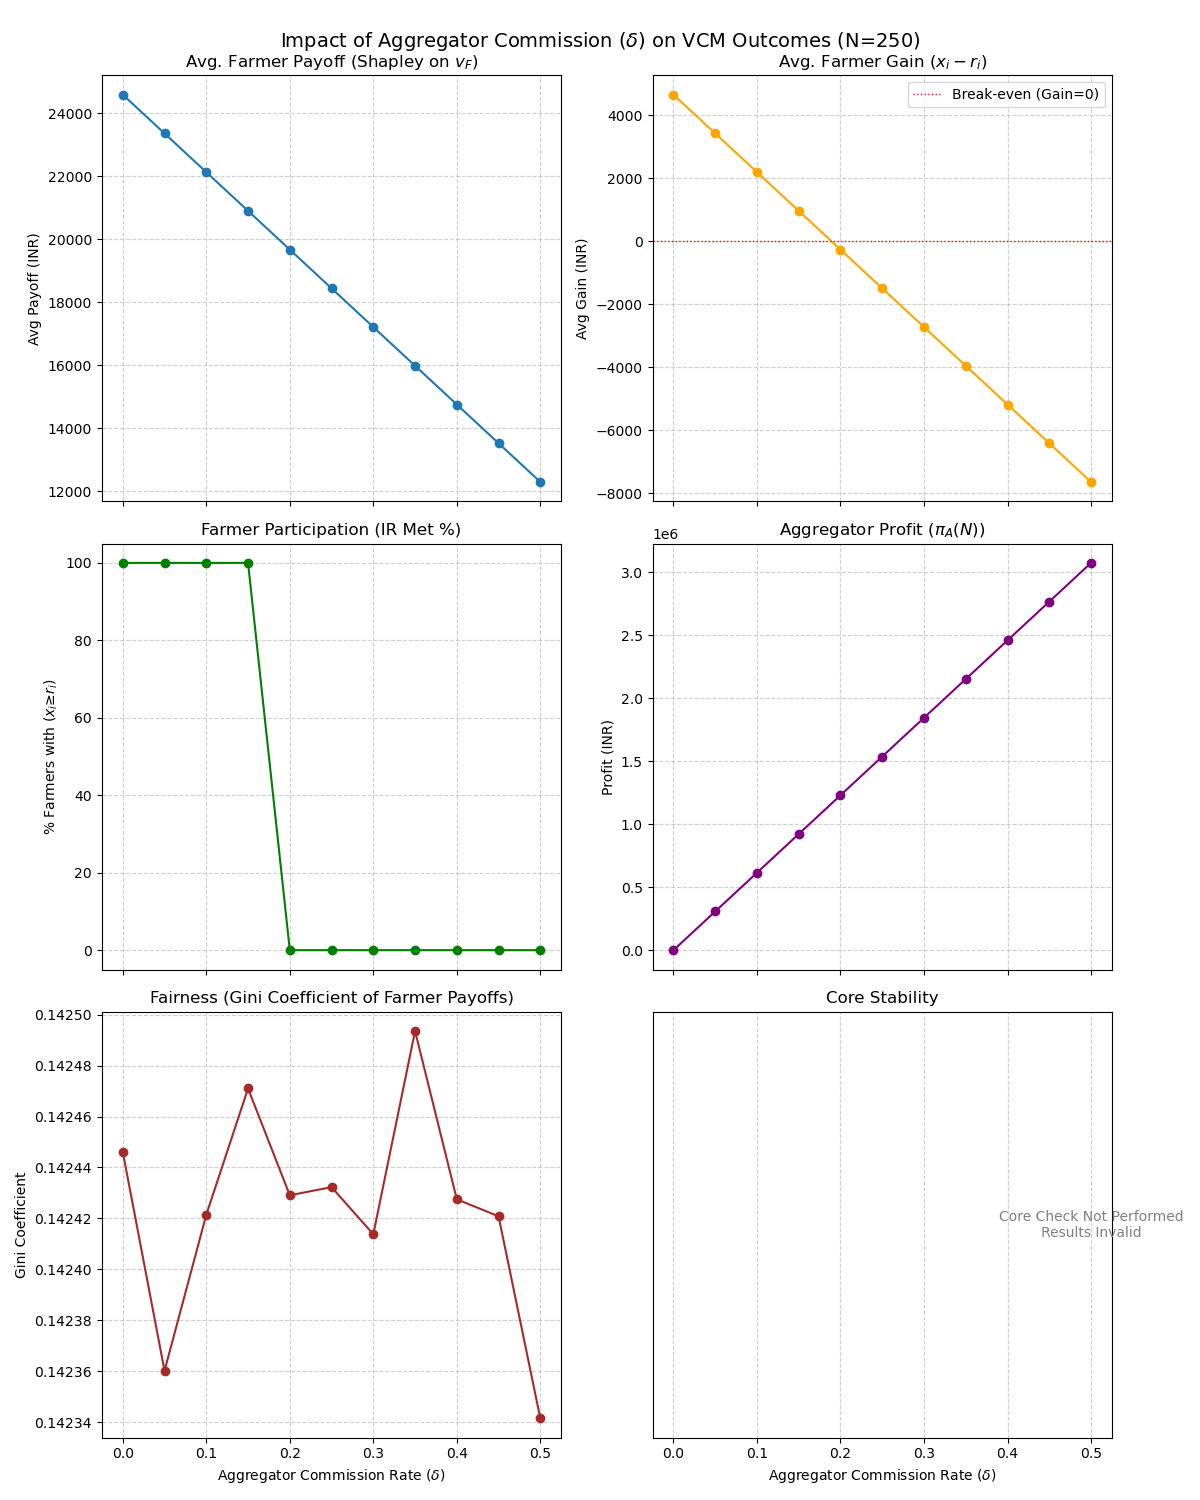
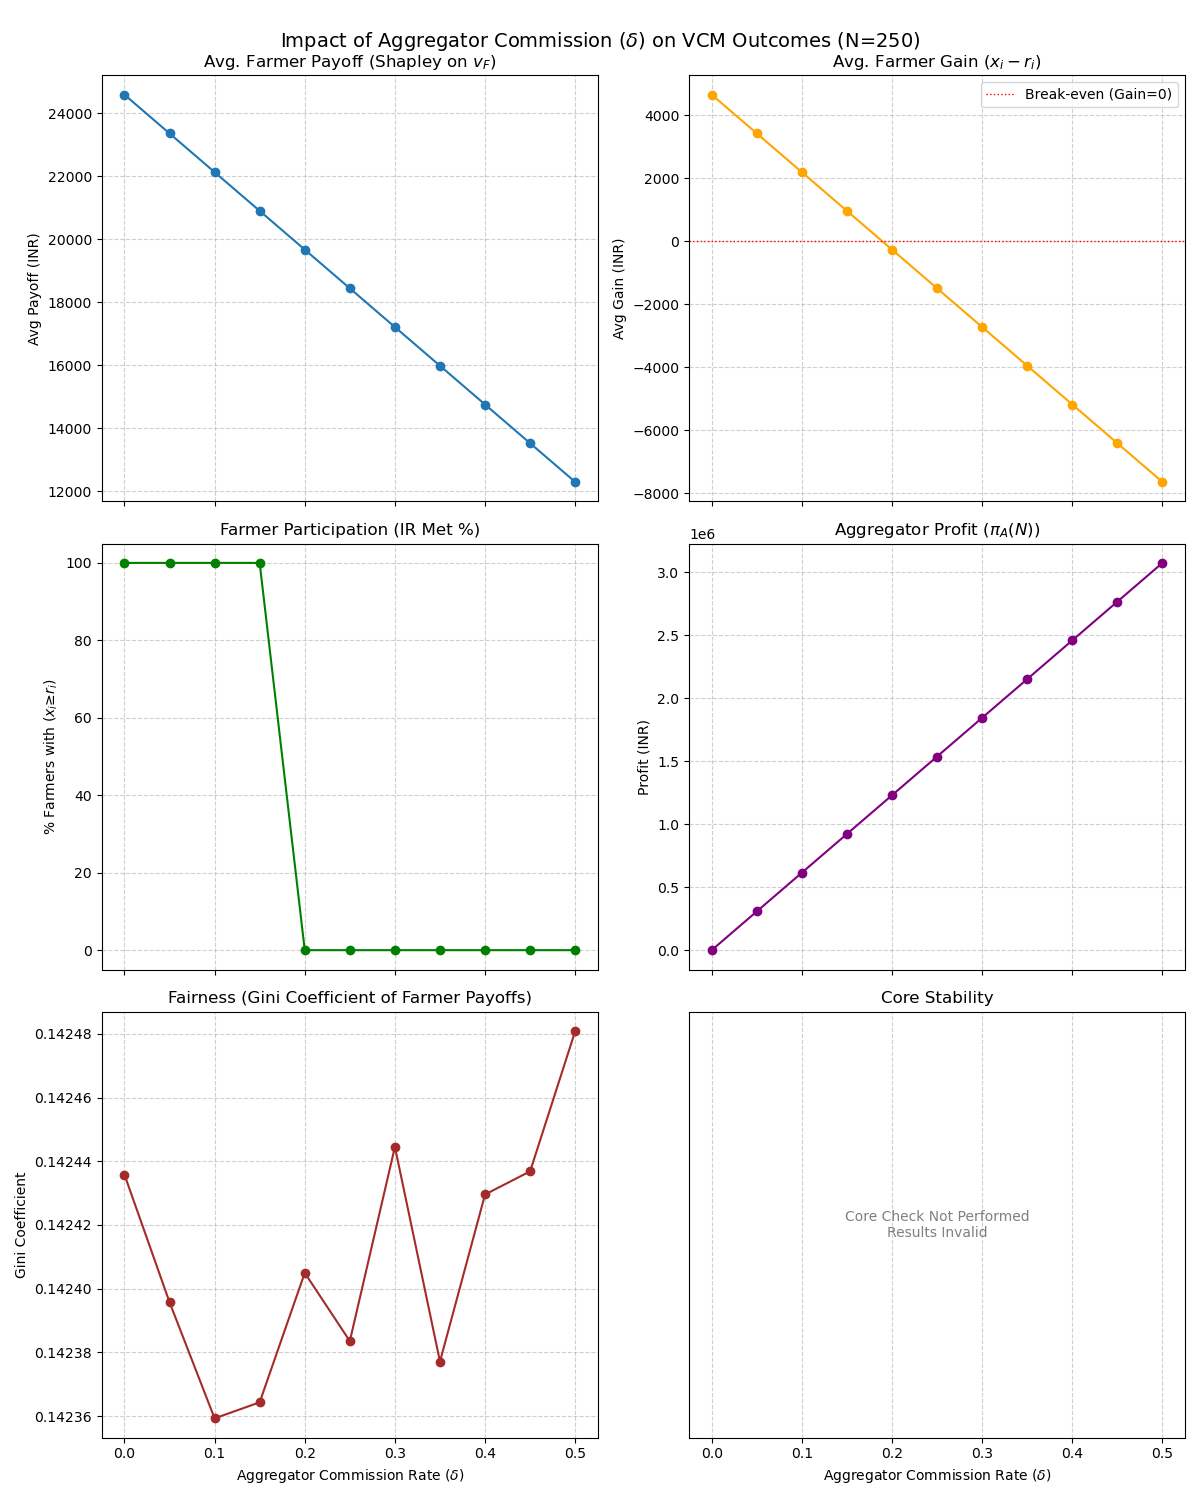
aggr 03

diff --git a/05_Aggregator_as_a_player.py b/05_Aggregator_as_a_player.py
@@ -276,7 +276,7 @@ if __name__ == "__main__":
             axes[2, 1].set_yticklabels(['Unstable', 'Stable'])
             axes[2, 1].set_ylim(-0.5, 1.5)
         else:
-            axes[2, 1].text(0.5, 0.5, 'Core Check Not Performed\nResults Invalid',ha='center', va='center', fontsize=10, color='gray', wrap=True)
+            axes[2, 1].text(0.25, 0.5, 'Core Check Not Performed\nResults Invalid',ha='center', va='center', fontsize=10, color='gray', wrap=True)
             axes[2, 1].set_title('Core Stability')
             axes[2, 1].set_yticks([])
 

diff --git a/README.md b/README.md
@@ -1,2 +1,184 @@
-# GameTheory2025MiniProject
-Project files for the Mini Project : "Voluntary Carbon Market in the Agriculture Sector:  A Game-Theoretic and Mechanism Design Approach"
+
+# Voluntary Carbon Market in Agriculture: A Game-Theoretic and Mechanism Design Analysis
+
+`Game Theory 2025 - Mini Project`
+---
+
+**Author:** Yalla Mahanth (mahanthyalla[at]iisc[dot]ac[dot]in)
+
+**Course:** E1 254 Game Theory and Mechanism Design, IISc Bangalore
+
+**Report:** [Game Theory and Mechanism Design for Voluntary Carbon Market in Agriculture](will_host_it_soon)
+
+## Project Overview
+
+This project invouled in design and implementation of a Voluntary Carbon Market (VCM) tailored for India's agricultural sector, focusing on overcoming participation barriers for small and marginal farmers. Agriculture is vital to India's economy and food security but faces challenges from climate change and contributes to greenhouse gas emissions. The Government of India's proposed VCM framework \[[MoAFW2024VCM](#references)] aims to incentivize sustainable practices (like agroforestry, soil carbon enhancement) by allowing farmers to generate and sell carbon credits.
+
+However, smallholder farmers (over 86% of Indian farmers) face significant hurdles like high transaction costs for verification, limited resources, and low bargaining power. The government framework suggests using Farmer Producer Organizations (FPOs) for aggregation. This project uses analytical tools to address critical questions arising from this framework:
+
+1.  **How can FPOs operate effectively and stably?**
+2.  **How should the collective benefits (carbon revenue) be fairly distributed among participating farmers?**
+3.  **What market mechanisms are suitable for trading these credits, ensuring fairness and encouraging farmer participation?**
+
+We employ a dual approach:
+*   **Cooperative Game Theory:** To model FPOs as coalitions, analyze stability (Core concept), and evaluate fair allocation rules (Shapley Value).
+*   **Mechanism Design:** To analyze and compare credit trading mechanisms (VCG Auction, Uniform Price Auction) against cooperative solutions based on efficiency, fairness, and crucially, participation incentives (Individual Rationality).
+
+The analysis uses computational simulations based on synthetic farmer data reflecting realistic heterogeneity.
+
+## Key Concepts
+
+*   **Voluntary Carbon Market (VCM):** A market where entities voluntarily buy carbon credits to offset their emissions. Credits are generated from projects that verifiably reduce or remove greenhouse gases (e.g., sustainable agriculture).
+*   **Carbon Credits:** A tradable certificate representing the reduction or removal of one metric tonne of CO2 equivalent (tCO2e).
+*   **Farmer Producer Organization (FPO):** A legal entity formed by primary producers (farmers) to undertake collective business activities, including input procurement, production, and marketing. In the VCM context, they act as aggregators.
+*   **Cooperative Game Theory:** Analyzes situations where players (farmers) can form binding agreements (coalitions/FPOs) to achieve joint benefits.
+*   **Characteristic Function (`v(S)`):** A function defining the total value a coalition `S` can achieve by cooperating. In our model: `v(S) = alpha * sum(r_i) + beta * (sum(r_i))^2`.
+    *   `r_i`: Farmer `i`'s baseline standalone payoff.
+    *   $\alpha (\texttt{alpha})$: Baseline scaling factor.
+    *   $\beta (\texttt{beta})$: Synergy factor representing non-linear benefits of scale.
+*   **The Core:** A solution concept in cooperative games. An allocation is in the Core if no subgroup of players can achieve a better outcome by splitting off from the grand coalition. Ensures stability.
+*   **Shapley Value (`phi_i(v)`):** A unique, axiomatically fair method to distribute the total value of a coalition among its members based on their average marginal contribution.
+*   **Mechanism Design:** The art of designing the "rules of the game" (e.g., auction rules) to achieve desired outcomes (efficiency, fairness, truthfulness) when participants act strategically.
+*   **VCG Auction (Vickrey-Clarke-Groves):** An auction mechanism known for efficiency (maximizing total surplus) and incentive compatibility (truthful bidding is optimal) under certain assumptions. Winners pay based on the externality they impose.
+*   **Individual Rationality (IR):** A participation constraint. In this context, specifically refers to whether a farmer's payoff from participating in the VCM (via FPO/auction) `x_i` is at least as good as their standalone farming payoff `r_i` (i.e., `x_i >= r_i`). This is critical for *voluntary* participation.
+*   **Gini Coefficient:** A statistical measure of distribution inequality (0 = perfect equality, 1 = maximum inequality). Used here to measure the fairness of payoff distributions among farmers.
+
+## Methodology
+
+### 1. Synthetic Data Generation
+*   A dataset simulating 250 heterogeneous Indian farmers was generated.
+*   Key attributes per farmer ($i$):
+    *   Baseline standalone payoff ($r_i$): Sampled from Normal(20000, 5000).
+    *   Potential carbon credits ($q_i$): Sampled from Gamma(2.5, 1.8).
+    *   True cost per credit ($c_i$): Sampled from Gamma(3, 800) + 500.
+    *   Other attributes (farm size, demographics, risk aversion) based on plausible distributions (see `generate_data.py` for details).
+*   This dataset provides the input parameters ($r_i, q_i, c_i$) for the game-theoretic and mechanism design models.
+
+### 2. Cooperative Game Model (FPOs)
+*   FPOs are modeled as coalitions $S$ within the set of farmers $N$.
+*   The value generated $v(S)$ is calculated using the characteristic function 
+$$
+    v(S) = alpha * sum(r_i) + beta * (sum(r_i))^2
+$$ 
+  
+Parameters $\alpha (\texttt{alpha})$ and $\beta (\texttt{beta})$ were varied across experiments.
+*   **Shapley Value Calculation:** Computed using either the exact permutation method (for $N <= 10$) or Monte Carlo sampling (for $N > 10$, typically 10,000 samples) to determine fair payoffs $\phi_i(v)$. See `utils.py`.
+*   **Core Stability Check:** Implemented by checking the Core conditions for all non-trivial subsets (feasible only for $N <= 15$). An allocation $x$ is stable if $ \displaystyle \sum(x_i) = v(N) $ and $ \displaystyle \sum_{i \in S} x_i >= v(S) $ for all $S$. See `utils.py`.
+
+### 3. Mechanism Design Models (Trading)
+*   **VCG Auction:** Implemented as described in the [Report](#references) (Section 3.3, Algorithm 3.3). Sellers (farmers) are assumed to bid their true cost $c_i$. Winners are those with $c_i <= p_max$ (market price). Payment $P_i$ is based on the critical cost (lowest losing bid or $p_max$). See `mechanism.py`.
+*   **Uniform Price Auction:** Implemented based on sorting sellers by cost $c_i$, fulfilling a fixed buyer demand $Q_demand$, and setting a single clearing price based on the first excluded seller. See `mechanism.py`.
+
+### 4. Evaluation Metrics
+*   Key metrics calculated include: Average Farmer Payoff, Absolute/Percentage Gain ($x_i - r_i$), IR Met Percentage ($x_i >= r_i$), Gini Coefficient, Core Stability Status, VCG Surplus, VCG Budget Balance, Number of Winners, Total Credits Supplied. See `metrics.py`.
+
+## Experimental Scenarios and Setup
+
+Various simulation scenarios were conducted to analyze different facets:
+
+*   **Coalition Analysis (N=3 to 12):** Examined the effect of FPO size on average value and Shapley payoff per farmer. Assessed Core stability of Shapley, Equal Split, and Proportional allocations for N=12.
+*   **Pricing Analysis (N=250):** Simulated VCG auctions across a wide range of market prices ($p_max$ from 500 to 4000 INR) to generate supply curves and analyze VCG performance metrics (surplus, payments, fairness, etc.).
+*   **Mechanism Comparison (N=12 to 250):** Directly compared Shapley Allocation (with baseline $alpha=1.0, beta=0.0$), VCG Auction, and Uniform Price Auction across varying market prices. Focused on Average Farmer Profit, Gini, and crucially, IR Met % (vs. $r_i$).
+*   **Parameter Sensitivity (N=100):** Systematically varied $\alpha (\texttt{alpha})$ (0.75-1.50, with $beta=0$) and $\beta (\texttt{beta})$ (0.0-0.2, with fixed $\alpha (\texttt{alpha})$) to understand their impact on Shapley payoffs and IR satisfaction.
+*   **Heterogeneity Analysis (N=15):** Simulated a mixed coalition of 'Small' and 'Large' farmers to analyze if Shapley allocation provides equitable relative gains.
+*   **Aggregator Model Analysis (N=15, N=250):** Explored the novel extension where an aggregator incurs costs ($C_fixed$, $C_var$) and takes a commission ($delta$), analyzing the impact on net farmer payoffs ($v_F(S)$), IR, aggregator profit, and stability.
+
+## Results and Discussion
+
+1.  **Value of Aggregation:** Simulations confirm that FPOs significantly increase the average value and potential payoff per farmer compared to standalone operation, especially when synergistic benefits ($beta > 0$) are present. Larger coalitions yield higher average value (See [Report](#references) Fig 5.1).
+
+2.  **Shapley Value Performance:**
+    *   **Fairness:** Consistently provides equitable distributions with low Gini coefficients (~0.12-0.14) across various scenarios (See [Report](#references) Fig 5.4, 5.8).
+    *   **Individual Rationality (vs. $r_i$):** Crucially, Shapley meets the participation IR constraint (100% farmers have $phi_i >= r_i$) provided the net benefit from cooperation is non-negative (i.e., $alpha >= 1$ if $beta=0$, or $beta > 0$). This is vital for voluntary adoption (See [Report](#references) Fig 5.3).
+    *   **Stability:** For small N (N=12, N=15), Shapley allocations were found to be in the Core under tested parameters, suggesting stable cooperation (See [Report](#references) Table 5.1).
+
+3.  **Auction Mechanism Performance:**
+    *   **VCG Efficiency:** Maximizes social surplus, and participation increases with market price (See [Report](#references) Fig 5.2, 5.6). Guarantees winners cover their carbon generation cost ($c_i$).
+    *   **VCG Participation Incentive Failure:** VCG (and Uniform Price) perform poorly on the critical IR metric ($x_i >= r_i$). Payoffs often don't compensate for the baseline farming opportunity cost, potentially discouraging voluntary participation (See [Report](#references) Fig 5.3).
+    *   **VCG Budget:** Generates a significant surplus for the auctioneer (See [Report](#references) Fig 5.6).
+
+4.  **Heterogeneity Impact:** Shapley value allocates gains proportionally to baseline contribution ($r_i$). In simulations with mixed small/large farmers, percentage gains were similar or identical, suggesting both groups have incentives to join (See [Report](#references) Fig 5.5).
+
+5.  **Parameter Sensitivity:** Outcomes are highly sensitive to $\alpha (\texttt{alpha})$ and $\beta (\texttt{beta})$. $alpha < 1$ (with $beta=0$) fails IR. Small positive $\beta (\texttt{beta})$ creates large gains due to the quadratic term, highlighting the need for realistic estimation.
+
+6.  **Aggregator Model Insights:** Introducing aggregator costs ($C_A(S)$) and commission ($delta$) reduces net farmer payoffs. There exists a critical $delta$ threshold (~15-20% in simulations) above which farmer participation (IR vs. $r_i$) collapses, even if the remaining allocation is Core-stable. This demonstrates the trade-off between aggregator viability and farmer incentives (See [Report](#references) Fig A.1).
+
+## Novel Extension: Aggregator as a Strategic Player (Appendix A)
+
+*   **Model:** Explicitly includes an aggregator $A$ with costs $C_A(S) = C_fixed + C_var * |S|$ and a commission rate $delta$. The net value available to farmers is $v_F(S) = (1 - delta) * max(0, V_potential(S) - C_A(S))$.
+*   **Methodology:** Simulated this model for N=15 and N=250, varying $delta$ from 0% to 50%. Calculated Shapley payoffs $\phi_i(v_F)$, aggregator profit, IR%, Gini, and Core stability (N=15).
+*   **Key Finding:** Identified a critical commission threshold (~15-20% in these runs) beyond which farmer participation collapses ($IR\% \to 0$), demonstrating the crucial need to balance aggregator revenue with farmer incentives. Shapley maintained fairness (low Gini) and Core stability (for N=15) across commission rates, but participation failure renders stability moot.
+
+## Conclusions
+
+1.  Aggregation via FPOs is crucial for smallholder participation in agricultural VCMs.
+2.  The Shapley value provides a demonstrably fair and stable (for small N) allocation mechanism that, crucially, satisfies the individual rationality constraint necessary for voluntary participation, provided the cooperative effort yields a net positive return over baseline farming.
+3.  Standard auction mechanisms like VCG, while efficient, may fail to incentivize broad voluntary farmer participation if payoffs don't sufficiently exceed baseline farming income ($r_i$).
+4.  The benefits of cooperation are highly sensitive to modeling parameters ($\alpha (\texttt{alpha})$, $\beta (\texttt{beta})$); realistic estimation is key.
+5.  Explicitly modeling aggregator costs and commissions reveals a critical trade-off: excessive commission rates destroy farmer participation incentives, regardless of the fairness of internal allocation.
+6.  Game theory and mechanism design provide essential tools for analyzing and designing effective, equitable VCMs tailored to the complexities of Indian agriculture.
+
+## Repository Structure
+
+*(See detailed structure listing in the initial sections of this README)*
+
+## Setup and Installation
+
+1.  **Clone:** 
+    ```bash git clone https://github.com/Mahanth-Maha/GameTheory2025MiniProject.git
+    ```
+2.  **Navigate:** 
+    ```bash 
+    cd GameTheory2025MiniProject
+    ```
+3.  **Environment (Recommended):**
+    ```bash
+    python -m venv venv
+    source venv/bin/activate  # Linux/macOS
+    # venv\Scripts\activate    # Windows
+    ```
+4.  **Install Packages:**
+    ```bash
+    pip install pandas numpy matplotlib seaborn tqdm
+    ```
+
+## Running the Experiments
+
+Execute scripts from the main project directory. Key scripts and examples:
+
+*   **Generate Data:** 
+    ```python
+    python3 generate_data.py
+    ```
+*   **Coalition Analysis (N=12):** 
+    ```python
+    python3 01_Analysis_Coalition.py -n 12
+    ```
+*   **Pricing Analysis (N=250):** 
+    ```python
+    python3 02_Analysis_Pricing.py -n 250
+    ```
+*   **Mechanism Comparison (N=250):** 
+    ```python
+    python3 mechanism_search.py -n 250 --output_csv ./data/synthetic/comparison_results.csv
+    ```
+*   **Parameter Sensitivity (Alpha=1.1, Beta=0.0, N=100):** 
+    ```python
+    python3 03_best_mechanism.py -n 100 --alpha 1.1 --beta 0.0
+    ```
+*   **Heterogeneity Analysis:** 
+    ```python
+    python3 04_small_vs_large_farmers.py
+    ```
+*   **Aggregator Model:** 
+    ```python
+    python3 05_Aggregator_as_a_player.py
+    ```
+
+*(See individual scripts or use `-h` for more command-line options like input file path, plot directories, specific parameters, etc.)*
+
+
+# references 
+
+*   [MoAFW2024VCM](https://www.mofw.gov.in/sites/default/files/Voluntary%20Carbon%20Market%20Framework%20for%20India.pdf) - Government of India, Ministry of Agriculture and Farmers Welfare, 2024. Voluntary Carbon Market Framework for India.*
+*   [Report](will_host_it_soon)   
